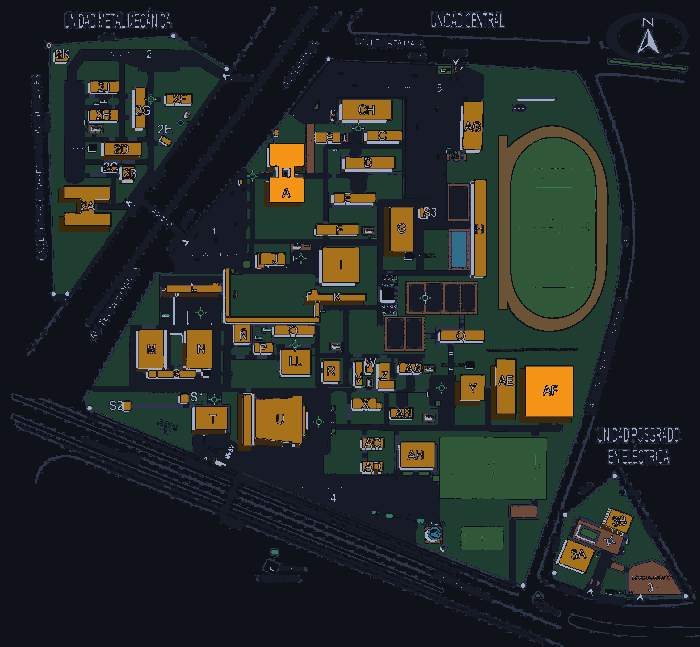
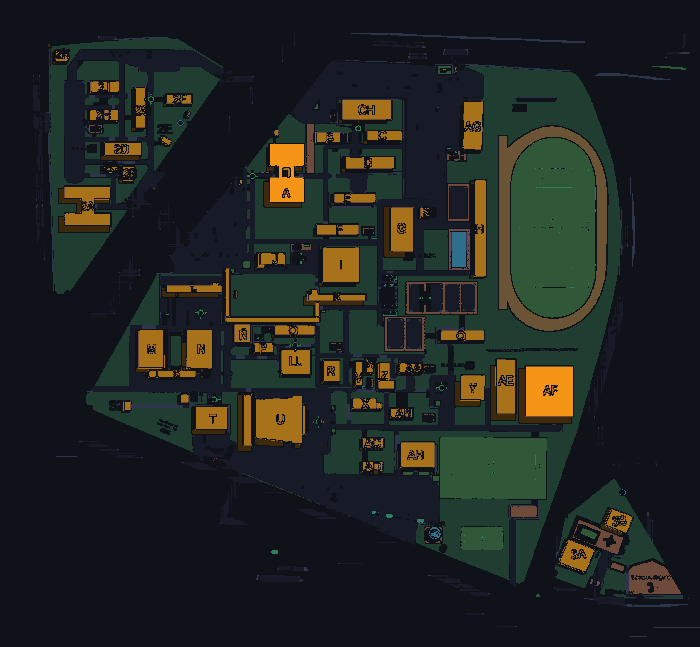
feat(map): the plan's words and its orphan pixels do not reach the artwork
The map's background was the plan's own scan with everything on it: the
titles of the units, the compass, the codes by the doors, the street names
and a spray of one-pixel motes. The app prints its own keys, so none of
that belongs in the artwork.

The words are not black (the plan is a photocopy: its titles are light
grey), so the discriminator is the shape, not the colour: a line of the
plan is a long continuous run, a letter is a short stroke. A grey pixel
that runs seventeen pixels or more is a line and survives; anything
shorter is a letter and does not reach the artwork. The coloured halo
that the black codes leave over the orange is recognised by touching the
ink, and a grey pixel with no neighbour at all is a mote, not a kerb.

What is left is the campus: the buildings, the lawns, the pitches, the
paths, the track, the pool and the two hand-over points. The artwork went
from 110 KB to 51 KB.

(cherry picked from commit 140ab5691b996dc92955af3d715e7d8fb1314f49)

diff --git a/scripts/extract-zones.ts b/scripts/extract-zones.ts
@@ -200,6 +200,18 @@ const UNIT_BANDS = {
  */
 const DATOS_GENERALES_BOX: PixelBox = { x: 45, y: 515, width: 175, height: 95, area: 0 };
 
+/*
+ * Las palabras del plano que son lo bastante grandes para ser lineas: los
+ * nombres de las unidades en la banda de arriba, la rosa de los vientos y el
+ * titulo del posgrado. La app los nombra en su leyenda, asi que el plano
+ * no los dice.
+ */
+const BLANKED_WORDS: PixelBox[] = [
+  { x: 0, y: 0, width: 700, height: 33, area: 0 },
+  { x: 585, y: 0, width: 80, height: 66, area: 0 },
+  { x: 612, y: 410, width: 88, height: 52, area: 0 },
+];
+
 /**
  * Regions of the raster that are map furniture, not campus content: the
  * right-hand legend panel, the "DATOS GENERALES" box, the "PLANO GENERAL
@@ -1305,6 +1317,68 @@ for (let y = 0; y < H; y++) {
   }
 }
 
+// El halo de la tinta: el borde antialiasado de un trazo del plano. Un
+// pixel pegado a la tinta es el borde de un glifo (una letra, un numero) y
+// no una acera. Fuera de las construcciones, donde las palabras del plano
+// estan, ese halo no se pinta.
+const inkHalo = new Uint8Array(W * H);
+for (let y = 1; y < H - 1; y++) {
+  for (let x = 1; x < W - 1; x++) {
+    const i = y * W + x;
+    if (inkMask[i]) continue;
+    if (
+      inkMask[i - 1] ||
+      inkMask[i + 1] ||
+      inkMask[i - W] ||
+      inkMask[i + W] ||
+      inkMask[i - W - 1] ||
+      inkMask[i - W + 1] ||
+      inkMask[i + W - 1] ||
+      inkMask[i + W + 1]
+    ) {
+      inkHalo[i] = 1;
+    }
+  }
+}
+
+// Una linea del plano es un trazo largo: una acera, un borde de pasto, el
+// eje de una calle. Una letra del plano es un trazo corto. La app imprime
+// sus propias claves, asi que las palabras del plano no llegan al arte: solo
+// sobreviven los trazos largos.
+const greyMask = new Uint8Array(W * H);
+for (let y = 0; y < H; y++) {
+  for (let x = 0; x < W; x++) {
+    const [r, g, b] = rgb(x, y);
+    if (isGreyLine(r, g, b)) greyMask[y * W + x] = 1;
+  }
+}
+/** The length of the grey run through (x, y), capped at the limit. */
+const greyRun = (x: number, y: number, dx: number, dy: number, limit: number): number => {
+  let n = 1;
+  let cx = x + dx;
+  let cy = y + dy;
+  while (n < limit && cx >= 0 && cy >= 0 && cx < W && cy < H && greyMask[cy * W + cx]) {
+    n++;
+    cx += dx;
+    cy += dy;
+  }
+  return n;
+};
+const lineMask = new Uint8Array(W * H);
+for (let y = 0; y < H; y++) {
+  for (let x = 0; x < W; x++) {
+    const i = y * W + x;
+    if (!greyMask[i]) continue;
+    const horizontal = greyRun(x, y, -1, 0, 17) + greyRun(x, y, 1, 0, 17) - 1;
+    if (horizontal >= 17) {
+      lineMask[i] = 1;
+      continue;
+    }
+    const vertical = greyRun(x, y, 0, -1, 17) + greyRun(x, y, 0, 1, 17) - 1;
+    if (vertical >= 17) lineMask[i] = 1;
+  }
+}
+
 const darkLayer = new Uint8Array(W * H);
 const layerCounts = new Map();
 for (let y = 0; y < H; y++) {
@@ -1314,10 +1388,18 @@ for (let y = 0; y < H; y++) {
     let layer;
 
     if (isInk(r, g, b)) {
-      // The black of the plan is either the printed ink (the code label
-      // printed inside a construction, the text of the plan) or the drop
-      // shadow the plan draws under every construction.
-      layer = shadowMask[i] ? 'shadow' : 'ink';
+      // The black of the plan is three things: the drop shadow it draws
+      // under every construction, the code printed INSIDE a construction, and
+      // the plan's own words (the codes by the doors, the street names, the
+      // compass). The app prints its own keys, so the words are erased: the
+      // code inside a construction is filled with the construction's own
+      // colour, and the rest is paper.
+      if (shadowMask[i]) layer = 'shadow';
+      else if (insideConstruction[i]) layer = safeMask[i] ? 'safe' : 'building';
+      else layer = 'paper';
+    } else if (inkHalo[i] && !insideConstruction[i]) {
+      // El borde de una palabra del plano: no se pinta.
+      layer = 'paper';
     } else if (isBuildingFill(r, g, b)) {
       layer = safeMask[i] ? 'safe' : 'building';
     } else if (isTrackFill(r, g, b)) {
@@ -1337,15 +1419,21 @@ for (let y = 0; y < H; y++) {
     } else if (isGreyLine(r, g, b)) {
       // A grey pixel surrounded by grey is the texture of a street or of a
       // lot; a grey pixel alone on the paper is one of the thin outlines.
-      layer = density(greyTable, x, y, 4) < 0.45 ? 'hairline' : 'paving';
+      // A grey pixel with NO neighbour is a mote: the raster's noise, not a
+      // kerb. And a grey pixel that does not run long enough to be a line
+      // is a letter of the plan, and the app prints its own keys.
+      if (!lineMask[i]) layer = 'paper';
+      else if (density(greyTable, x, y, 1) < 0.22) layer = 'paper';
+      else layer = density(greyTable, x, y, 4) < 0.45 ? 'hairline' : 'paving';
     } else {
       layer = 'paper';
     }
 
-    // La leyenda impresa del plano no se lleva al arte: la app tiene su
-    // panel de nombres, y el recuadro con sus muestras de color se
-    // contradice con él. El generador lo tapa con el fondo de la página.
+    // Las palabras del plano no se llevan al arte: la app tiene su propio
+    // panel de nombres, y el recuadro con las muestras de color se
+    // contradice con él. Se tapan con el fondo de la página.
     if (inBox(x, y, DATOS_GENERALES_BOX)) layer = 'paper';
+    if (BLANKED_WORDS.some((box) => inBox(x, y, box))) layer = 'paper';
 
     const index = LAYER_INDEX.get(layer);
     if (index !== undefined) darkLayer[i] = index;

diff --git a/odd/tasks/mapa-3d-claridad.md b/odd/tasks/mapa-3d-claridad.md
@@ -1,0 +1,214 @@
+# El croquis 3D de verdad — letras dentro, sin ruido y con cada edificio en su sitio
+
+**Objective:** que el mapa se vea como un mapa 3D: cada edificio es un volumen con su clave
+encajada dentro, el fondo no tiene ruido de píxeles ni de palabras, y cada pin y cada nombre caen
+sobre la construcción que nombran.
+**Branch:** `feature/objetos-perdidas-itm` (SAME BRANCH).
+**Delivery strategy:** one branch, one PR, reviewed per work-unit commit. Four work units.
+**Test runner:** `vp test` (366 unit/integration tests) · `vp exec node scripts/smoke-journey.ts`
+(the demo journey, 366 browser assertions, 2 viewports) · `vp exec node scripts/smoke-api.ts` (the
+full-stack journey, 26 assertions) · `vp check` · `vp build`.
+
+**Status: PLANNED. Nothing of this phase has been built yet.**
+
+---
+
+## Why this phase exists
+
+The user looked at the map and said what is missing: progress and clarity. The words "letters inside
+the buildings", "no visual noise of pixels nor letters" and "the locations are not centred on the
+buildings". Five images, and they are all true.
+
+An audit of the pipeline (the generator that reads the official plan, the catalogue it writes, the
+SVG that draws the relief) found the causes:
+
+| #   | What the user sees                                                            | Cause                                                                                                    | Where                                             |
+| --- | ----------------------------------------------------------------------------- | -------------------------------------------------------------------------------------------------------- | ------------------------------------------------- |
+| 1   | The plan's own words in the background ("2C", "ESTACIONAMIENTO", the compass) | every dark pixel is painted as `ink` (bright `#a1adc6`); the printed text IS dark pixels                 | `scripts/extract-zones.ts:1316-1320`, `isInk:347` |
+| 2   | Speckles of one or two pixels on the pavement and the grass                   | the painter is per pixel and has no notion of an isolated pixel                                          | `scripts/extract-zones.ts:1308-1354`              |
+| 3   | The roof of a small building slides off it and leaves a slab over the grass   | the wall is a fixed height in SCREEN pixels while the footprint is 5-12 units; the roof slides `h/scale` | `src/map/geometry.ts:786-803`                     |
+| 4   | The key of a building is printed outside its footprint                        | the key is anchored to the roof's centroid, and the roof is the base displaced towards the light         | `src/components/CampusMap.tsx:545,750-763`        |
+| 5   | The volumes cover each other the wrong way round                              | the painter's order is descending: the near volumes are painted first and the far ones over them         | `src/components/CampusMap.tsx:559`                |
+| 6   | Big translucent rectangles over the map                                       | the parkings are painted twice: the raster already has them, the SVG fills them again                    | `src/components/CampusMap.tsx:702-715`            |
+| 7   | A huge brown mass where the safe points are                                   | the amber ramp's roof/base jump is 7.5:1 and the safe point `AF` is the tallest volume                   | `src/index.css:114-128`                           |
+| 8   | A black tooltip over the map with the plan's title                            | the SVG carries a `<title>`, so the browser paints its own tooltip                                       | `src/components/CampusMap.tsx:700`                |
+| 9   | The pin of the athletics track points at the swimming pool                    | the track's geometry is the BOX around the oval, and the label is anchored to the centre of that box     | `scripts/extract-zones.ts:1519-1542`              |
+| 10  | The pin of the cafeteria is on the lawn                                       | the demo pins carry hardcoded percentages that the generator's re-tracing left behind                    | `src/data.ts` (MOCK_PINS)                         |
+
+---
+
+## Specs
+
+### S1 — El fondo no tiene palabras
+
+The plan's printed text, street names, the compass and the title card are NOT in the artwork the app
+draws: the app prints its own keys.
+Scope: the generator's painting loop.
+Acceptance: the dark artwork contains no glyph of the original plan; the keys the app prints are the
+only letters on the map.
+Checks: the regenerated artwork, the journey's screenshots, and a diff of the artwork's pixels.
+
+### S2 — El fondo no tiene píxeles huérfanos
+
+No isolated pixel survives in the artwork: a lone dark pixel is not a line, and a lone grey pixel is
+not a kerb.
+Scope: the generator's painting loop.
+Acceptance: the artwork's isolated specks are gone and the pavement, the kerbs and the street mesh
+survive.
+Checks: the regenerated artwork (before/after) and the screenshots.
+
+### S3 — El tejado se queda en su edificio
+
+A building's roof may never slide off its own footprint: the wall's height is the family's height,
+capped by the building's own size.
+Scope: `extrudePolygon` and the scene's heights.
+Acceptance: for every construction, the roof overlaps its own base.
+Checks: the geometry's tests (a new invariant), the journey's wall assertion.
+
+### S4 — La clave cabe dentro de su edificio
+
+The key is printed on the roof, sized to the building: never larger than the building, and only
+drawn when it is legible.
+Scope: the scene's code size and anchor.
+Acceptance: the key's box is inside the building's footprint, and the key is at least 7 px when it is
+drawn.
+Checks: a new journey assertion (the key is inside its building) and the screenshots.
+
+### S5 — Los volúmenes se pintan de atrás hacia delante
+
+The far volumes are painted first, so the near ones (and their roofs) cover them.
+Scope: the scene's sort.
+Acceptance: the order is the painter's order for a light from the upper left.
+Checks: the screenshots (a near building's roof is never covered by a far one).
+
+### S6 — El mapa no se pinta dos veces
+
+The SVG does not fill the areas the raster already draws (the parkings).
+Scope: the scene's flats.
+Acceptance: the flats are not filled over the artwork.
+Checks: the screenshots (no translucent rectangle over the map).
+
+### S7 — El relieve se lee: los tonos no son un salto
+
+The relief's ramp keeps its ratios (the roof reads against the wall, the wall against the base) but
+the mass of the roof against the base is not a black cliff.
+Scope: `src/index.css`'s relief tokens (and the safe points' ramp).
+Acceptance: the ramp's documented ratios still hold and the roof/base mass is not the loudest
+contrast on the map.
+Checks: the journey's contrast assertions, the screenshots.
+
+### S8 — Ni el navegador ni el mapa hablan de más
+
+The SVG carries no `<title>` (the browser's tooltip is not the app's), and the zone's label is a
+quiet chip, not a black slab.
+Scope: the SVG and the zone's label.
+Acceptance: no native tooltip over the map; the label reads without covering the building.
+Checks: the screenshots.
+
+### S9 — Cada pin y cada nombre caen sobre lo que nombran
+
+The demo's pins are derived from the catalogue (not hardcoded percentages), and the athletics
+track's geometry is its ring (not the box around it).
+Scope: `src/data.ts` and the generator's track.
+Acceptance: every demo pin sits on the building it names; the track's label and pin sit on the
+track.
+Checks: a journey assertion (the pin of each seeded report is inside its zone's footprint), the
+screenshots.
+
+---
+
+## Invariants (what must NOT break)
+
+| #   | Invariant                                                                      | Where it is asserted              |
+| --- | ------------------------------------------------------------------------------ | --------------------------------- |
+| I1  | The 366 unit tests, the demo journey (366) and the API journey (26) stay green | every gate                        |
+| I2  | "What you see is what you touch": a tap on the roof resolves that building     | the journey's roof and base taps  |
+| I3  | The relief keeps its three tones and its documented ratios                     | the journey's contrast assertions |
+| I4  | A building is still a volume, not a slab: the wall is visible                  | the journey's wall assertion      |
+| I5  | The zone listbox keeps one tab stop, its 90 named options and its live region  | the journey, lightpanda's tree    |
+| I6  | The API contract, the domain rules and the catalogue's schema are untouched    | the API's own tests               |
+| I7  | The app still builds with the same dependencies: no runtime package is added   | `vp build`                        |
+| I8  | The demo mode and the API mode keep producing the same interface               | both journeys                     |
+
+---
+
+## Decisions locked
+
+| Question                 | Decision                                                                               | Why                                                             |
+| ------------------------ | -------------------------------------------------------------------------------------- | --------------------------------------------------------------- |
+| The keys' size           | Proportional to the building, capped at 13 screen px, and drawn only when it is ≥ 7 px | a key that does not fit is not a key; the legend names the rest |
+| The keys' anchor         | The roof's centroid, and the roof no longer leaves the building (S3)                   | the key is printed on the face the student sees                 |
+| The wall's height        | The family's height, capped by the building's own size (S3)                            | a wall taller than the building reads as a slab                 |
+| The painter's order      | The far volumes first (ascending depth)                                                | the roof of a near building must cover the one behind it        |
+| The parkings             | Not filled by the SVG                                                                  | the raster already draws them; painting twice is the noise      |
+| The plan's words         | Erased from the artwork                                                                | the app prints its own keys                                     |
+| The demo pins' positions | Derived from the catalogue                                                             | the catalogue moves when the plan is re-traced                  |
+| The track                | Its ring, not the box around it                                                        | a pin on the infield points at the pool                         |
+
+---
+
+## Tasks
+
+| ID  | Specs          | Work                                                                                                                           | Route  | Status  | Verification                                  |
+| --- | -------------- | ------------------------------------------------------------------------------------------------------------------------------ | ------ | ------- | --------------------------------------------- |
+| T1  | S1, S2         | The generator's painting loop: the plan's words out, the orphan pixels out, the kerbs in.                                      | inline | done | the regenerated artwork + the journey (366/366) + the unit tests |
+| T2  | S3, S5         | The roof stays on its building (the wall capped by the size) and the painter's order is the right way round.                   | inline | planned | the geometry's tests + the journey            |
+| T3  | S4, S6, S7, S8 | The key fits its building, the map is not painted twice, the relief's tones stop shouting, no native tooltip, a quieter label. | inline | planned | the journey's new assertions + the shots      |
+| T4  | S9             | The demo's pins come from the catalogue and the track is its ring.                                                             | inline | planned | the journey + the screenshots                 |
+
+### Risks
+
+| Task | Risk                                                                                   | Mitigation                                                                     |
+| ---- | -------------------------------------------------------------------------------------- | ------------------------------------------------------------------------------ |
+| T1   | Erasing the ink also erases the plan's outlines (the campus's edge, the area lines)    | the long runs stay as `hairline` (the conservative variant)                    |
+| T1   | The isolated-grey filter erases a one-pixel kerb                                       | the pavement is a dense area (density ≥ 0.45) and a line has neighbours        |
+| T2   | Capping the wall breaks the previous phase's "the wall is a constant in screen pixels" | the cap only bites the buildings that are smaller than the wall                |
+| T2   | The painter's order changes what the screenshots show                                  | the journey's screenshots are the evidence; the order is argued from the light |
+| T3   | A key that is proportional is unreadable on a phone at 1×                              | the key is only drawn when it is ≥ 7 px; the legend names the rest             |
+| T3   | Softening the relief's ramp breaks the documented contrast ratios                      | the journey asserts the ratios; the tokens are the only thing that changes     |
+| T4   | The demo's pins move, so the journey's pin coordinates change                          | the journey asserts the pins are inside their zone's footprint                 |
+
+---
+
+## Log
+
+**L1 — 2026-10-23 — The request (verbatim):**
+
+> "Al mapa le falta mucho progreso además de mayor claridad, quitar palabras, encajar palabras
+> dentro de los edificios, mejorar píxeles huérfanos y claridad. Piensa de manera más profunda y ODD
+> el mejoramiento del mapa para que se vea un mapa 3D, con las letras bien encajas en cada edificio,
+> sin ruido visual de píxeles ni letras. [...] También parece que las ubicaciones están mal centradas
+> según los edificios: [...] Dice pista de atletismo pero señala la alberca de natación. Apóyate
+> fuertemente de Codegraph como buscador e indexador de código, además de usar subagentes."
+
+**L2 — 2026-10-23 — What the audit found.** Ten causes, listed in the table above. The three that
+matter most: the wall's height is a constant in screen pixels while the footprints are 5-12 units
+(the roof slides further than the building is big, so the key falls outside and the volume reads as
+a slab); the painter's order is descending, which is the wrong way round for a light from the
+upper left; and the demo's pins carry hardcoded percentages that the generator's re-tracing left
+behind (the pin of the cafeteria is on the lawn).
+
+**L3 — 2026-10-23 — The invariants this phase breaks on purpose.** The previous phase decided that
+the key is at least 11 screen pixels (`scripts/smoke-journey.ts`) and that the wall is at least
+7 pixels (`MIN_WALL_PX`). Both are incompatible with "the key fits inside its building" on a phone
+at 1×, where the smallest building is 3.6 pixels tall. The product decision is the user's: the key
+fits, and a key that cannot be read is not drawn (the legend names every zone anyway). The journey's
+assertions change with it.
+
+**L4 — 2026-10-23 — The words of the plan are grey, not black.** The first attempt assumed the
+printed text was ink (the black of the plan) and erased it. It did not work, and the reason is worth
+remembering: the plan is a photocopy, and its TITLES are printed in LIGHT GREY (the samples around
+"UNIDAD METAL-MECANICA" are 181-236, not 0-40), so they never reach the `ink` branch at all. They
+reach the `hairline` branch, together with the plan's real lines.
+
+So the discriminator is not the colour but the SHAPE: a line of the plan (a kerb, the edge of a lawn,
+the axis of a street) is a long continuous run, and a letter is a short stroke. A grey pixel that
+runs seventeen pixels or more is a line and survives; anything shorter is a letter and does not reach
+the artwork. On top of that, the black codes printed over the coloured areas leave a coloured halo
+(the antialiasing of a black stroke over orange is not grey), and that halo is recognised by being
+touching the ink.
+
+What is left of the plan in the artwork: the buildings, the lawns, the pitches, the paths, the
+track, the pool and the two hand-over points. The artwork went from 110 KB to 51 KB and the words of
+the plan are gone: the titles of the units, the compass, the codes by the doors, the street names and
+the "DATOS GENERALES" box.
